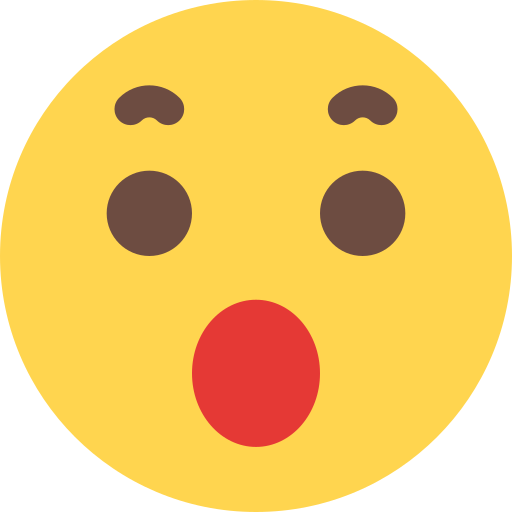
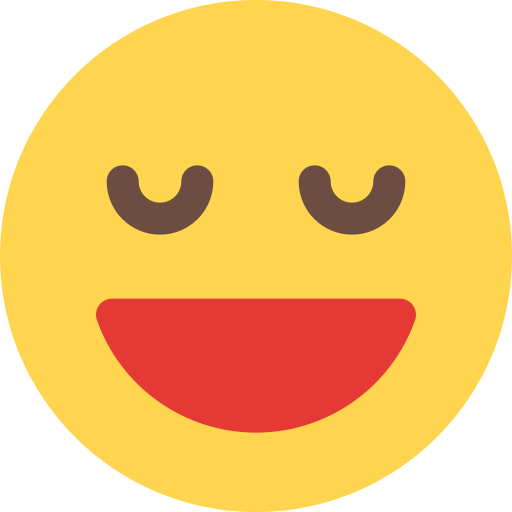
Feat: 마이페이지 레포트

diff --git a/Front/src/components/my/ReportContent.tsx b/Front/src/components/my/ReportContent.tsx
@@ -4,7 +4,12 @@ import { useNavigate } from 'react-router-dom';
 import RecommendList from '../../utils/RecommendList';
 import UseAxios from '../../utils/UseAxios';
 import useSearchStore from '../../stores/SearchStore';
-import face from '../../assets/face1.png';
+import face1 from '../../assets/face1.png';
+import face2 from '../../assets/face2.png';
+import face3 from '../../assets/face3.png';
+import face4 from '../../assets/face4.png';
+import sadFace from '../../assets/sadFace.png';
+// import face6 from '../../assets/face6.png';
 
 interface ReportContentProps {
   name: string | null;
@@ -29,6 +34,9 @@ const PreferenceWrapper = styled.ul`
   max-sm:w-full max-sm:h-[50%]`}
 `;
 
+const EmptyCard = styled.figure`
+  ${tw`flex-cc w-[100%] h-[100%] animate-fade-left animate-duration-500`}
+`;
 const Card = styled.figure`
   ${tw`flex-cc w-[100%] h-[100%]`}
 `;
@@ -39,7 +47,7 @@ const CartTitle = styled.h1`
   ${tw`text-2xl`}
 `;
 const InfraContent = styled.p`
-  ${tw`text-xl text-blue-500`}
+  ${tw`text-xl text-blue-500 text-center`}
 `;
 const CardContent = styled.p`
   ${tw`font-jamsilMedium text-center`}
@@ -51,6 +59,7 @@ const ReportContent: React.FC<ReportContentProps> = ({ name }) => {
   const axios = UseAxios();
   const navigate = useNavigate();
   const areaName = useSearchStore((state) => state.areaName);
+  const update = useSearchStore((state) => state.selectedArea);
   const updateRecommendList = useSearchStore((state) => state.updateRecommendList);
 
   useEffect(() => {
@@ -68,6 +77,7 @@ const ReportContent: React.FC<ReportContentProps> = ({ name }) => {
 
   useEffect(() => {
     if (isEnter) {
+      update('');
       navigate('/information', { state: { areaName: areaName } });
     } else {
       setIsEnter(true);
@@ -100,22 +110,24 @@ const ReportContent: React.FC<ReportContentProps> = ({ name }) => {
     lst.filter((category) => (preferences ? preferences[category] === score : null))
   );
 
-  const cardTitles = ['욕심이 많은', '현실을 아는', '모든게 다 좋은'];
+  const scoreIndex = scoreList[0].length ? Math.min(Math.floor((scoreList[0].length - 1) / 2), 3) : 0;
+  const imageList = [face1, face2, face3, face4];
+  const cardTitles = ['프로 만족러', '프로 타협러', '프로 꼼꼼러', '프로 욕심러'];
 
   return (
     <Backgroud>
       <PreferenceWrapper>
         {preferences === null ? (
-          <Card>
-            <CardImage src={face} alt="face" />
+          <EmptyCard>
+            <CardImage src={sadFace} alt="sad" />
             <CartTitle>{name}님!</CartTitle>
             <CardContent>아직 검사결과가 없어요</CardContent>
-          </Card>
+          </EmptyCard>
         ) : (
           <Card>
-            <CardImage src={face} alt="face" />
+            <CardImage src={imageList[scoreIndex]} alt="face" />
             <CartTitle>
-              {cardTitles[0]} {name}님!
+              {cardTitles[scoreIndex]} {name}님!
             </CartTitle>
             <InfraContent>
               {scoreList[0].map((lst) => (
@@ -123,7 +135,7 @@ const ReportContent: React.FC<ReportContentProps> = ({ name }) => {
               ))}
             </InfraContent>
             <CardContent>
-              항목을 중요하다고 선택했어요.
+              {scoreList[0].length !== 0 ? '항목을 중요하다고 선택했어요.' : '중요한 항목이 없어요.'}
               <br />
               그런 {name}님에게 추천하는 동네는?
             </CardContent>

diff --git a/Front/src/utils/Alert.tsx b/Front/src/utils/Alert.tsx
@@ -1,86 +1,68 @@
-import Swal from 'sweetalert2'
-import img from '../assets/garma.jpg'
-import { SweetAlertIcon } from 'sweetalert2'
-import 'animate.css/animate.min.css'
+import Swal from 'sweetalert2';
+import { SweetAlertIcon } from 'sweetalert2';
+import 'animate.css/animate.min.css';
 
 type AlertProps = {
-    title : string;
-    content : string;
-    icon : SweetAlertIcon;
-}
+  title: string;
+  content: string;
+  icon: SweetAlertIcon;
+};
 
-
-const Alert = (data :AlertProps) => {
-    return Swal.fire({
-        title: data.title,
-        html : data.content,
-        icon: data.icon,
-        customClass: {
-          popup: 'custom-style'
-        },
-        showClass: {
-          popup: `
+const Alert = (data: AlertProps) => {
+  return Swal.fire({
+    title: data.title,
+    html: data.content,
+    icon: data.icon,
+    customClass: {
+      popup: 'custom-style',
+    },
+    showClass: {
+      popup: `
             animate__animated
             animate__bounceIn
             animate__fast
-          `
-        },
-        hideClass: {
-          popup: `
+          `,
+    },
+    hideClass: {
+      popup: `
             animate__animated
             animate__bounceOutUp
             animate__faster
-          `
-        }
-      });
-}
-
-export const ImageAlert = (data :AlertProps) => {
-    return Swal.fire({
-        title: data.title,
-        width: 600,
-        padding: "3em",
-        color: "#716add",
-        background: "#fff url(/images/trees.png)",
-        backdrop: `
-          rgba(0,0,123,0.4)
-          url(${img})
-          left top
-          no-repeat
-        `
-      });
-}
+          `,
+    },
+  });
+};
 
 export const ConfirmAlert = (data: AlertProps) => {
   return Swal.fire({
     title: data.title,
-    html : data.content,
-        icon: data.icon,
-        showClass: {
-          popup: `
+    html: data.content,
+    icon: data.icon,
+    showClass: {
+      popup: `
             animate__animated
             animate__fadeInUp
             animate__faster
-          `
-        },
-        hideClass: {
-          popup: `
+          `,
+    },
+    hideClass: {
+      popup: `
             animate__animated
             animate__fadeOutDown
             animate__faster
-          `
-        },
+          `,
+    },
     showCancelButton: true,
     // confirmButtonColor: "#3085d6",
-    cancelButtonColor: "#8D8D95",
-    cancelButtonText: "No",
-    confirmButtonText: "Yes"
+    cancelButtonColor: '#8D8D95',
+    cancelButtonText: 'No',
+    confirmButtonText: 'Yes',
   }).then((result) => {
     if (result.isConfirmed) {
       return true;
     }
     return false;
   });
-}
+};
 
-export default Alert
+export default Alert;

diff --git a/Front/src/components/building/content.css b/Front/src/components/building/content.css
@@ -1,3 +1,7 @@
+::-webkit-scrollbar {
+  display: none;
+}
+
 .contentStyle {
   display: flex;
   flex-direction: column;
